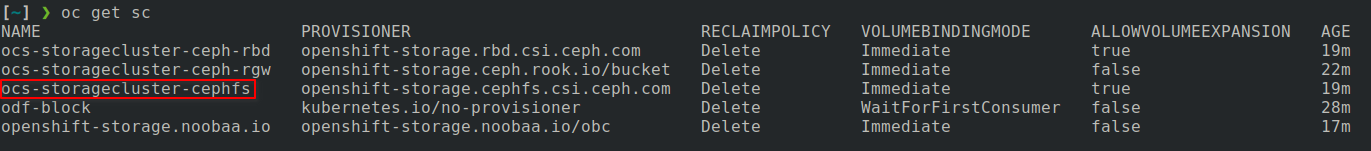
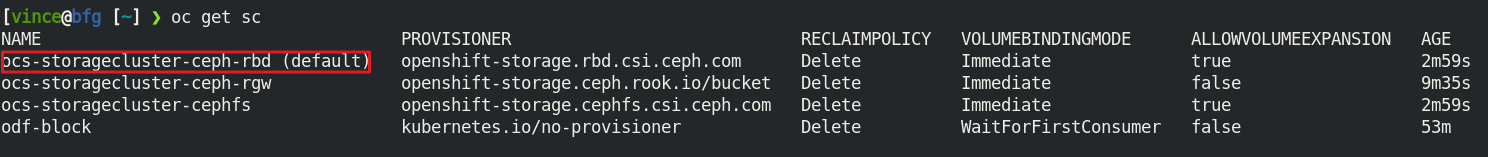
updated odf section for 4.20

Changed region(s): [[0.0, 0.0265, 1.0, 0.8742]]

diff --git a/source/ocp/odf-quick-start.rst b/source/ocp/odf-quick-start.rst
@@ -5,95 +5,123 @@ This document will describe the installation of the Local Storage Operator
 (LSO) and OpenShift Data Foundations (ODF). LSO is a pre-requisite for
 installing ODF on OpenShift nodes that will use local block devices.
 
-.. important:: With 4.11+ ODF added a wizard removing the need to manually
-   create all the required objects. The install and configuration process is
-   much easier. I've removed my old manual notes and replaced them with a
-   wizard walk-through.
+.. important:: This quick start is based on OCP 4.20.
 
-.. warning::
-   We’ve found that hugepages needs to be disabled before installing ODF
-   otherwise noobaa pods won’t start correctly. This can be re-enabled
-   afterwards.
+.. warning:: With 4.12 we found that hugepages needed to be disabled before
+   installing ODF, otherwise noobaa pods won’t start correctly. This can be
+   re-enabled afterwards. I have NOT retested this on newer code.
 
-Add Local Storage and ODF Operators
------------------------------------
+Local Storage Operator
+----------------------
 
-1. From the OCP Web Console go to :menuselection:`Operators --> OperatorHub`.
+.. important:: You must configure the Local Storage Discovery and VolumeSet
+   before configuring ODF. In previous versions, the ODF wizard did this for
+   you but now only works with SSD's as HDD's are not supported. To work-around
+   this requirement simply create the Local Storage objects first.
+
+1. From the OCP Web Console go to :menuselection:`Ecosystem --> Software
+   Catalog`.
 #. In the Filter by keyword box type, "local storage".
-#. Select **"Local Storage"** operator.
-#. Click "Install".
-#. By default, the "openshift-local-storage" namespace will be used. Accept the
-   defaults and click "Install".
-#. After install finishes go back to :menuselection:`Operators -->
-   OperatorHub`.
-#. In the Filter by keyword box type, "ODF".
-#. Select **"OpenShift Data Foundation"** operator.
-#. Click "Install".
-#. Accept the defaults and click "Install".
-#. Go to next section to configure ODF.
+#. Select **"Local Storage"** operator and click "Install".
+#. Leave/accept the defaults and click "Install".
+#. Watch progress.
+
+   .. code-block:: bash
+
+      watch oc get po -n openshift-local-storage
+
+#. Upon completion, click "View Operator".
+#. Go to "Local Volume Discovery" tab and click "Create LocalVolumeDiscovery".
+#. Expand "NodeSelector" section and "Remove nodeSelectorTerms".
+
+   .. image:: images/localvolumediscovery.png
+
+#. Click "Create".
+#. Go to "Local Volume Set" tab and click "Create LocalVolumeSet".
+#. Set Name and StorageClassName.
+#. Expand NodeSelector section and "Remove nodeSelectorTerms".
+#. Change configure via "Form view" to "YAML view".
+#. Remove the lines minSize and maxSize (or set to your preference).
+#. Click "Create".
+#. Confirm success. A new pod per block device, "diskmaker-manager-xxxxx"
+   should be created/running.
+
+   .. code-block:: bash
+
+      oc get po -n openshift-local-storage
+
+.. note:: Before starting the next section, ODF Operator, confirm new PV block
+   devices. Go to :menuselection:`Storage --> PersistentVolumes`.
+
+ODF Operator
+------------
+
+1. From the OCP Web Console go to :menuselection:`Ecosystem --> Software
+   Catalog`.
+#. In the Filter by keyword box type, "Data Foundation".
+#. Select **"OpenShift Data Foundation"** operator and click "Install".
+#. Enable "Console plugin".
+#. Leave/accept the other defaults and click "Install".
+#. Watch progress.
+
+   .. code-block:: bash
+
+      watch oc get po -n openshift-storage
+
+#. Upon successful deployment go to next section.
 
 Configure ODF
 -------------
 
-#. Frome the web console go to :menuselection:`Operators --> Installed
-   Operators`.
-#. Select "OpenShift Data Foundation".
-#. Enable Console plugin.
+1. Frome the web console go to :menuselection:`Storage --> Storage cluster`.
+#. Click "Configure Data Foundation".
+#. Select "Create Storage Cluster".
 
-   .. tip:: Be sure to wait a couple minutes and refresh browser.
-      The console should prompt you.
+   .. image:: images/createstoragecluster.png
 
-   .. image:: images/enableodfplugin.png
-
-#. Click "Create StorageSystem".
-
-#. Select "Create a new StorageClass using local storage devices".
+#. Select "Use an existing StorageClass".
+#. In the drop down box select the storage class previously created in the
+   Local Storage operator section.
 
    .. image:: images/createstoragesystem.png
 
-#. Click Next.
+#. Leave other defaults and click Next.
 
-   .. note:: This may take several minutes to discover the available block
-      devices.
+#. Confirm "Available raw capacity" and selected nodes. Configure perforamance,
+   if unsure leave default "Balanced mode".
 
-#. Set name of your LocalVolumeSet. Example: "odf-block".
-
-   .. image:: images/createlocalvolumeset.png
+   .. image:: images/capacityandnodes.png
 
 #. Click Next.
-#. Are you sure you want to continue? Select Yes for "Create LocalVolumeSet".
-
-   .. note:: This may take several minutes to create the LocalVolumeSet.
-
-#. Confirm Capacity and nodes.
-
-   .. note:: You should see the total "Available raw capacity" of your selected
-      nodes.
-
+#. Enable Security and network. Make changes appropriate to your environment. I
+   use the defaults.
 #. Click Next.
-#. Leave defaults for Security and network and click Next.
-#. Review the information, if acceptable click "Create StorageSystem".
+#. Review the information. If acceptable click "Create storage system".
+
+#. Watch progress.
+
+   .. code-block:: bash
+
+      watch oc get po -n openshift-storage
 
    .. note:: This can take several minutes to complete.
 
-#. Verify “ocs-storagecluster-cephfs” is created.
+#. Verify default storage class.
+
+   .. note:: Ceph block is the default (ocs-storagecluster-ceph-rbd)
 
    .. code-block:: bash
 
       oc get sc
 
-   .. attention:: Do NOT attempt the next step until you see the newly created
-      storage class.
-
    .. image:: images/ocgetsc.png
 
-#. Set the default storage class to “ocs-storagecluster-cephfs”.
+#. (OPTIONAL) If you prefer a different default storage class use the following
+   command. In this example I set Ceph fs (ocs-storagecluster-cephfs).
 
    .. code-block:: bash
 
       oc patch storageclass ocs-storagecluster-cephfs --patch '{"metadata": {"annotations": {"storageclass.kubernetes.io/is-default-class": "true"}}}'
-
-   .. image:: images/ocgetscdef.png
 
 Optional: Disable NooBaa
 ------------------------
